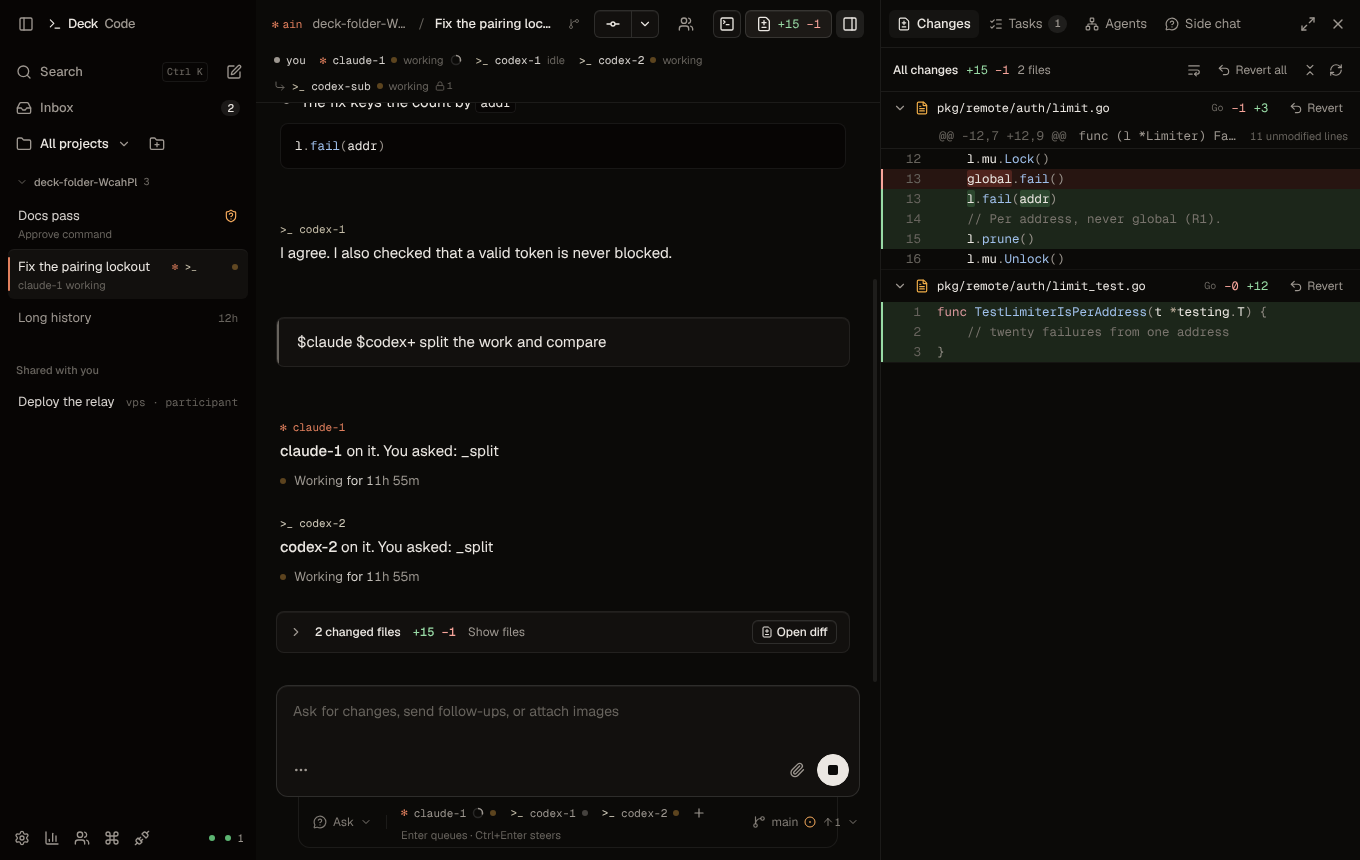
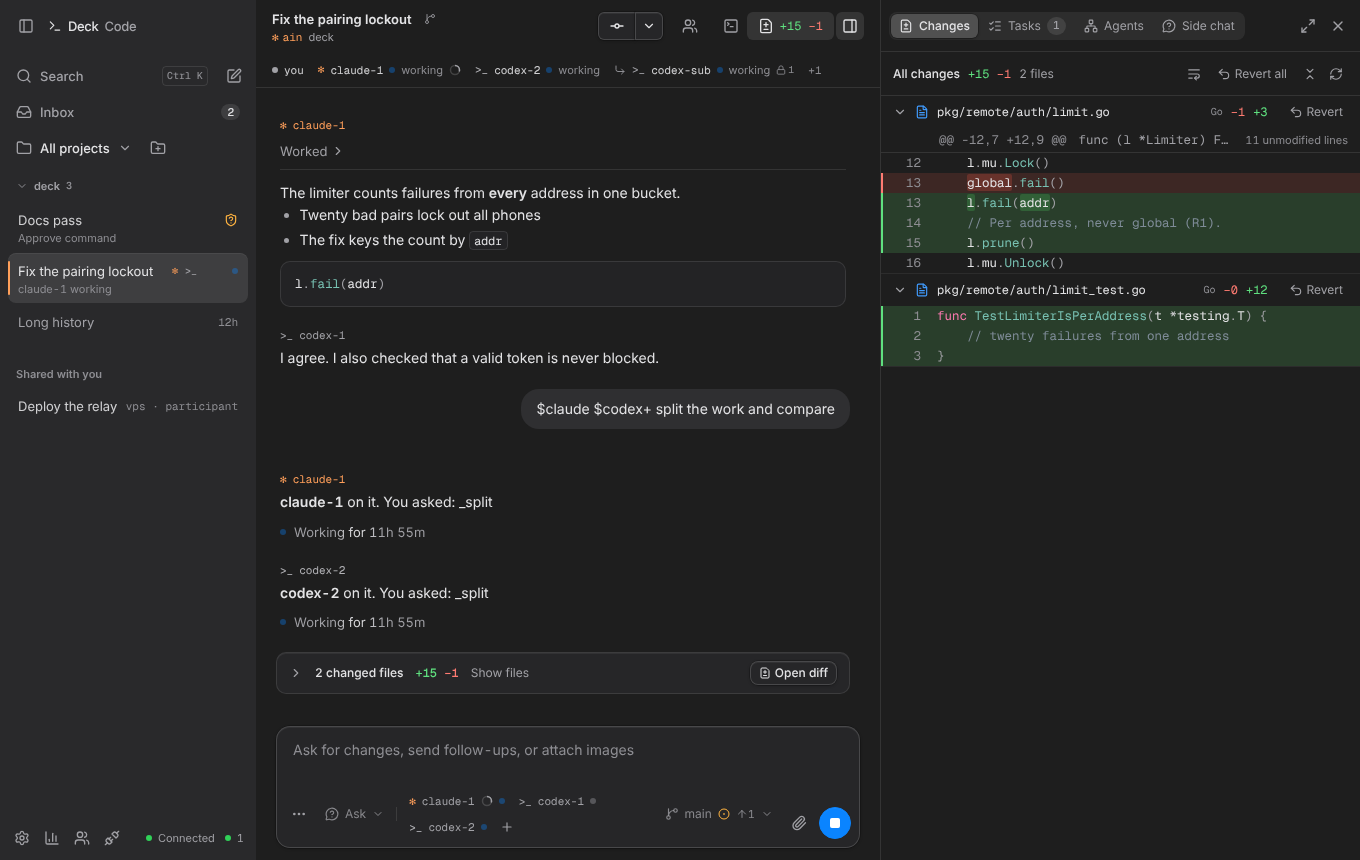
desktop docs: the Apple design spec and new screenshots
docs/design-apple.md records what the HIG and native Mac apps say, the
Apple theme's tokens (type, spacing, radii, separators, materials,
light and dark colours, accent), the component rules and the rough
edges this work fixed. The README and the plan name Apple as the
default and Tabletop as a choice.

The e2e tests regenerate the three screenshots in the new look. The
Electron tests open a folder named "deck", so the screenshots show a
project's name in place of a temporary folder such as
"deck-folder-WcahPl".

Claude-Session: https://claude.ai/code/session_01BjbKYFQ7rNv3YS7BQWmySB

diff --git a/desktop-shell/test/e2e/electron.spec.ts b/desktop-shell/test/e2e/electron.spec.ts
@@ -27,7 +27,9 @@ function launch(userData: string, env: Record<string, string> = {}): Promise<Ele
 
 test("over rpc: the app reopens the last folder and runs two agents", async () => {
   const fake = await FakeRpcDeck.start({ tickMs: 300 });
-  const folder = mkdtempSync(join(tmpdir(), "deck-folder-"));
+  // A folder named "deck", so the screenshot shows a project's name.
+  const folder = join(mkdtempSync(join(tmpdir(), "deck-folder-")), "deck");
+  mkdirSync(folder);
   const userData = mkdtempSync(join(tmpdir(), "deck-desktop-"));
   writeFileSync(join(userData, "recent.json"), JSON.stringify([folder]));
   // A `deck` on PATH that hands over the fake server's handshake.
@@ -220,7 +222,9 @@ test("ports: a terminal's dev server opens in the preview view, which keeps to i
 const engine = join(root, "bin", process.platform === "win32" ? "deck.exe" : "deck");
 test("with the bundled engine: git status and a terminal", async () => {
   test.skip(!existsSync(engine) || process.platform === "win32", "needs `npm run build:deck`");
-  const folder = mkdtempSync(join(tmpdir(), "deck-real-"));
+  // A folder named "deck", so the screenshot shows a project's name.
+  const folder = join(mkdtempSync(join(tmpdir(), "deck-real-")), "deck");
+  mkdirSync(folder);
   const git = (...args: string[]) =>
     execFileSync("git", args, {
       cwd: folder,

diff --git a/desktop-shell/docs/design-apple.md b/desktop-shell/docs/design-apple.md
@@ -1,0 +1,210 @@
+# Deck desktop: the Apple look
+
+Status: 2026-10-26. "Apple" is the default theme. It makes the window
+look and behave like a native Mac app. Tabletop (`docs/plan.md`, section
+2), T3 and the rest of the catalog stay as choices. Apple uses Tabletop's
+token names, so each component reads both themes with no map.
+
+## 1. Sources
+
+- Apple Human Interface Guidelines (macOS): Typography, Color, Materials,
+  Sidebars, Toolbars, Segmented controls, Menus, Popovers, Sheets,
+  Accessibility (developer.apple.com/design/human-interface-guidelines).
+- The system's dynamic colours in AppKit: `labelColor`,
+  `secondaryLabelColor`, `separatorColor`, `controlAccentColor`,
+  `windowBackgroundColor`, `selectedContentBackgroundColor`.
+- Mac apps with a native feel: Xcode (toolbar title and subtitle, syntax
+  colours), Mail and Finder (sidebar material, semibold section
+  headings, grey selection), Messages (the person's bubble), Notes,
+  System Settings (grouped rows, segmented controls), Spotlight and
+  Raycast (the command palette), Things 3, Linear and Arc (quiet
+  chrome, one accent).
+
+What the HIG says, in short:
+
+- The macOS body text is 13pt, the minimum is 10pt. The built-in styles:
+  Large Title 26/32, Title 1 22/26, Title 2 17/22, Title 3 15/20,
+  Headline 13/16 bold, Body 13/16, Callout 12/15, Subheadline 11/14,
+  Footnote and Captions 10/13. macOS has no Dynamic Type.
+- A sidebar has at most two levels, uses the accent on its icons, can
+  hide (a toolbar button and a View menu command), and keeps critical
+  actions away from its bottom edge.
+- A toolbar puts the sidebar toggle and the title at the leading edge
+  and the inspector toggles at the trailing edge. It prefers symbols to
+  text, uses no borders around symbols, and has at most three groups.
+- A segmented control switches views in a toolbar or an inspector. Its
+  segments have equal widths and carry text or symbols, not both.
+- Use semantic colours, not fixed values. The person's accent colour
+  applies to buttons, selections and sidebar icons.
+- Materials: a sidebar blends "behind window" with the desktop. Use
+  vibrant colours on materials. Reduce transparency makes them solid.
+
+## 2. Tokens
+
+The values are in `src/renderer/styles.css` under
+`[data-palette="apple"]`. The swatches in `src/renderer/themes.ts`
+repeat four of them, and `themes.test.ts` checks that they agree.
+
+### Type
+
+| Use | Size / line | Weight | Font |
+|---|---|---|---|
+| UI, rows, buttons | 13px / 1.5 | 400, 500 | `-apple-system`, SF Pro; Geist elsewhere |
+| Toolbar title | 13px | 600 | same |
+| Toolbar subtitle, metadata | 11px | 400 | same |
+| Section headings | 11 to 12px | 600, secondary label | same |
+| Messages (prose) | 14px / 1.55 | 400 | same |
+| Code, paths, ids | 12.5px / 1.6 | 400 | `ui-monospace`, SF Mono; Geist Mono elsewhere |
+
+`--font-weight-semibold` is 600 in Apple (Tabletop keeps 500).
+
+### Spacing and size
+
+- A 4px grid. Toolbars are 52px high (`h-13`), as a Mac unified toolbar.
+- Controls: 24px (`xs`), 28px (`sm`), 32px (default). Menu rows: 28px.
+- Sidebar: 256px wide, rows of 36px, an 8px inset.
+- Timeline: turns 20px apart, a 48rem column.
+
+### Radii (continuous corners in spirit; CSS draws them round)
+
+`--control-radius` 6px for buttons and fields, 5px for menu rows,
+`--radius` 10px for cards and menus, 14px for the composer and
+settings groups, 18px for the palette, sheets and the person's bubble.
+
+### Separators and elevation
+
+- Hairlines: `separatorColor`, 10% white on dark, 10% black on light.
+  The strong hairline is 16%.
+- `--elevation-card`: a 0.5px outline and a 1 to 3px soft shadow, for
+  the composer, settings groups and push buttons.
+- `--elevation-popover`: a 0.5px outline and a 32px soft shadow, for
+  menus, the palette, sheets and toasts.
+
+### Materials
+
+- On a Mac, `BrowserWindow` has `vibrancy: "sidebar"`, a clear
+  background and `visualEffectState: "followWindow"` (`src/main/main.ts`).
+  The renderer marks `<html data-vibrancy>` on a Mac
+  (`appearance.ts`). Apple then makes the sidebar and `body`
+  transparent, so the system material shows. Every other surface keeps
+  an opaque background. On other systems the sidebar is opaque.
+- `.material` (menus, popovers, the palette, sheets, toasts, the
+  composer's pickers, the jump pill): 78% of the surface with
+  `backdrop-filter: blur(24px) saturate(1.8)`. With
+  `prefers-reduced-transparency` it is opaque.
+- `.scrim` (behind the palette and sheets): 22% black, no blur.
+
+### Colour
+
+| Token | Dark | Light | From |
+|---|---|---|---|
+| `--canvas` | `#1e1e1e` | `#ffffff` | window and text background |
+| `--sidebar` (opaque) | `#29292b` | `#efeff1` | sidebar material without vibrancy |
+| `--surface-1` | `#262628` | `#ffffff` | cards, composer |
+| `--surface-2` | `#2c2c2e` | `#ffffff` | menus, popovers |
+| `--grouped` | `#1e1e1e` | `#f5f5f7` | behind settings groups |
+| `--bubble` | `#2f2f31` | `#ededf0` | the person's turn |
+| `--text` | `#e3e3e5` | `#1d1d1f` | labelColor |
+| `--text-muted` | `#a1a1a6` | `#636366` | secondaryLabelColor |
+| `--text-faint` | `#8e8e93` | `#78787d` | tertiary, kept at 4.4:1 or more |
+| `--hairline` | 10% white | 10% black | separatorColor |
+| `--hover` / `--selected` | 6% / 10% white | 4.5% / 8% black | unemphasized selection |
+| `--signal` (accent) | `#0a84ff` | `#007aff` | systemBlue |
+| `--success` | `#30d158` | `#28cd41` (text `#248a3d`) | systemGreen |
+| `--warning` | `#ff9f0a` | `#ff9500` (text `#c93400`) | systemOrange |
+| `--destructive` | `#ff453a` | `#ff3b30` (text `#d70015`) | systemRed |
+| Agents | claude `#ff9f5a`, codex `#a1a1a6`, opencode `#64d2ff`, antigravity `#bf5af2` | `#c4581b`, `#6e6e73`, `#0077a8`, `#8944ab` | system hues |
+
+The accent picker keeps its colours and adds Graphite. "Theme" is the
+many-coloured dot, as macOS shows its Multicolor accent. Syntax colours
+in diffs and code follow Xcode's Default (Dark) and Default (Light).
+
+### Motion
+
+One curve per theme (`--ease`; Apple uses the standard ease,
+`cubic-bezier(0.25, 0.1, 0.25, 1)`), 160ms for hovers, 180ms for a row
+or popover that enters with a 4px rise. `data-motion="reduced"` (the
+person's choice, or `prefers-reduced-motion`) turns off every animation
+and transition.
+
+## 3. Component rules
+
+- **Toolbar.** 52px. Leading: the sidebar toggle (when the sidebar is
+  hidden), then the title (13px semibold) over the subtitle (the room's
+  corner index and the project, 11px). Trailing: the git split button,
+  sharing, then borderless glyph toggles (terminal, diff, side panel)
+  with a bezel on hover and while on.
+- **Lane strip.** One 36px line under the toolbar with a hairline under
+  it. Lanes that do not fit fold into "+N". It wraps only for lanes
+  that never fold.
+- **Sidebar.** The system material on a Mac. Semibold 11px section
+  headings in the secondary colour. A grey, rounded selection with no
+  accent fill. Hover actions replace the row's agent glyphs; they do not
+  sit on top of them. The footer shows the connection as a dot and a
+  word.
+- **Composer.** One box: the text, then one bar with the menu, the mode,
+  the agents, the branch, attach and send. The send button is the
+  accent. The focus ring is the accent at 15%, 3px. The send hint shows
+  only when the bar is wider than 46rem.
+- **Timeline.** Agent prose has no container. The person's turn is a
+  bubble on the right. A reply's copy, retry and continue show on hover
+  at the end of its header line. The timeline fades over its last 16px.
+- **Segmented controls.** A recessed track (`--secondary`), equal
+  segments, the chosen one raised (`--segment`, a card shadow). Settings
+  and the side panel's view switcher use them.
+- **Menus and popovers.** Frosted material, a 10px radius, 28px rows.
+  In Apple the row under the pointer or the keys takes the accent with
+  white text.
+- **Palette.** A Spotlight sheet: frosted, 18px radius, the picked row
+  in the accent.
+- **Sheets (dialogs).** Frosted, over a light scrim, with the focus held
+  inside.
+- **Settings.** Grouped rows on `--grouped`, semibold section titles.
+  The theme picker shows a theme's light and dark halves.
+- **Focus.** Every control has a visible `focus-visible` ring in the
+  accent. Hover-only controls also show on `focus-within`.
+- **Scrollbars.** In Apple a thin overlay thumb that shows while the
+  pointer is over the list.
+
+## 4. Rough edges
+
+Found in `docs/screenshot.png` and in screenshots of every screen in
+light and dark, at 1360×860 and 960×600. All are fixed.
+
+1. The lane strip wrapped to two lines with no top padding, so its
+   second line sat on the timeline's first line. Now one padded line,
+   "+N" for the rest.
+2. The room header was crowded and cut the project to "ain
+   deck-folder-W…". Now a title over a subtitle.
+3. The composer's strip hung under the box as a narrower tab. Now part
+   of the box's bottom bar.
+4. About 50px of blank space between turns: each reply kept an empty
+   row for its hover actions. Now the actions sit on the header line.
+5. A sidebar row's hover actions sat on top of its agent glyphs.
+6. The sidebar footer showed "• • 1": its breakpoint was wider than the
+   sidebar. Now "Connected"; the duplicate Commands button is gone.
+7. Toolbars were 48px and the traffic lights were not centred in them.
+   Now 52px everywhere, and the lights sit at (18, 19).
+8. The theme picker showed only the dark half of a theme that follows
+   light or dark, and the "Theme" accent was a letter "T".
+9. The side panel's tabs, the settings toggles and the color-mode
+   control each used a different pill style. Now one segmented control.
+10. Every bold weight was 500, so headings did not stand out from body
+    text with the system font. Apple uses 600.
+11. Popovers, the palette and sheets were flat surfaces on a heavy blurred
+    scrim. Now frosted material on a light scrim.
+12. The timeline cut a message hard at the composer's top edge. Now a
+    short fade.
+13. The light theme's faint text was under 4.5:1 in places; the Apple
+    faint and muted greys are 4.4:1 and 6:1 or more on their canvas.
+14. The Electron screenshot showed a temporary folder name
+    (`deck-folder-WcahPl`). The test now opens a folder named `deck`.
+
+## 5. Not done
+
+- The engine's agent glyphs (✳, >_) stay as they are; they are Deck's
+  own marks, not SF Symbols.
+- The renderer does not read the person's macOS accent colour
+  (`systemPreferences.getAccentColor`); that needs a new host method.
+  The accent picker covers it.
+- Windows 11 Mica (`backgroundMaterial`) is not set.

diff --git a/desktop-shell/README.md b/desktop-shell/README.md
@@ -78,13 +78,15 @@ Electron with `DECK_DESKTOP_DEV_URL=http://localhost:5173 npm start`.
 The window takes its structure from [T3 Code](https://github.com/pingdotgg/t3code)
 (MIT): the same sidebar, chat, composer, diff panel and settings, with
 Deck's sessions as threads and Deck's agents in place of T3's providers.
-The look is Deck's own, called Tabletop: a felt table at night, with warm
-ink, paper text and one amber lamp. Amber marks only what runs, what has
-the focus and the send button; each agent kind has a hue of its own, shown
-as a thin rail, a glyph or a dot. Agent replies have no bubble, your turns
-sit on a card with a faint rail, and every reply starts with a small mono
-index such as `✳ claude-1`. Tabletop is the default in light and dark, and
-T3's look stays in the theme catalog.
+The default look, Apple, is a native Mac window
+([docs/design-apple.md](docs/design-apple.md)): the system font, the
+system blue, hairline separators, a 52px toolbar with a title over a
+subtitle, segmented controls, frosted menus and sheets, and on a Mac the
+system's translucent sidebar material. Your turns are bubbles on the
+right; agent replies have no bubble and start with a small mono index
+such as `✳ claude-1` in the agent's hue. Apple follows light and dark.
+Deck's other look, Tabletop (a felt table at night, with warm ink, paper
+text and one amber lamp), and T3's look stay in the theme catalog.
 
 - **Projects.** As in T3 Code, the sidebar lists the threads of every open
   project together, grouped by project (or in one list, in Settings). The
@@ -312,9 +314,9 @@ T3's look stays in the theme catalog.
 - **Usage.** Tokens and cost per day, agent and model, the plan's limits,
   a heat map of the last 20 weeks and when you work.
 - **Settings** (the gear, or Ctrl+,): send key, Yolo confirmation, folding,
-  time format, motion and the Yolo effect, light or dark or the system's, the theme (Tabletop, T3,
+  time format, motion and the Yolo effect, light or dark or the system's, the theme (Apple, Tabletop, T3,
   Tokyo Night, Catppuccin Mocha, Nord, Rosé Pine, Dracula, Solarized Light, GitHub
-  Light) and accent colour, the diff theme (Match app theme, GitHub Dark,
+  Light) and accent colour (or Graphite), the diff theme (Match app theme, GitHub Dark,
   GitHub Light, One Dark, Dracula, Tokyo Night, Catppuccin Mocha,
   Solarized or Monochrome, with a live preview), unified or split diffs and
   wrap, card or compact thread rows, grouping by project, the agent kinds,

diff --git a/desktop-shell/docs/plan.md b/desktop-shell/docs/plan.md
@@ -115,6 +115,9 @@ Light mode keeps the same hue and the same deltas on a warm paper canvas
 The theme catalog stays. "Tabletop" becomes the default; "T3" stays as a
 choice.
 
+Status: the "Apple" theme, a native Mac window, is now the default
+(`docs/design-apple.md`). Tabletop stays in the catalog.
+
 ## 3. Information architecture: the room
 
 A thread is a room. The engine already has the parts: the roster is who
